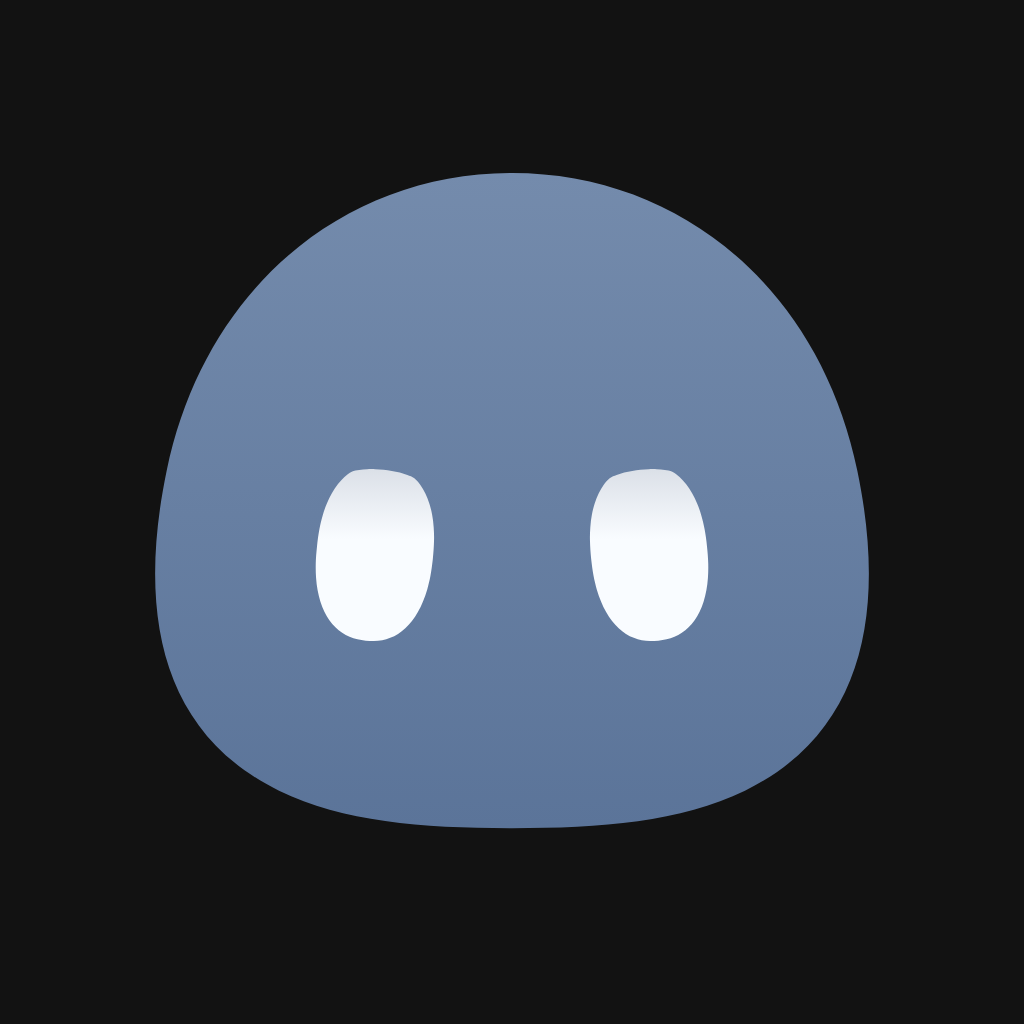
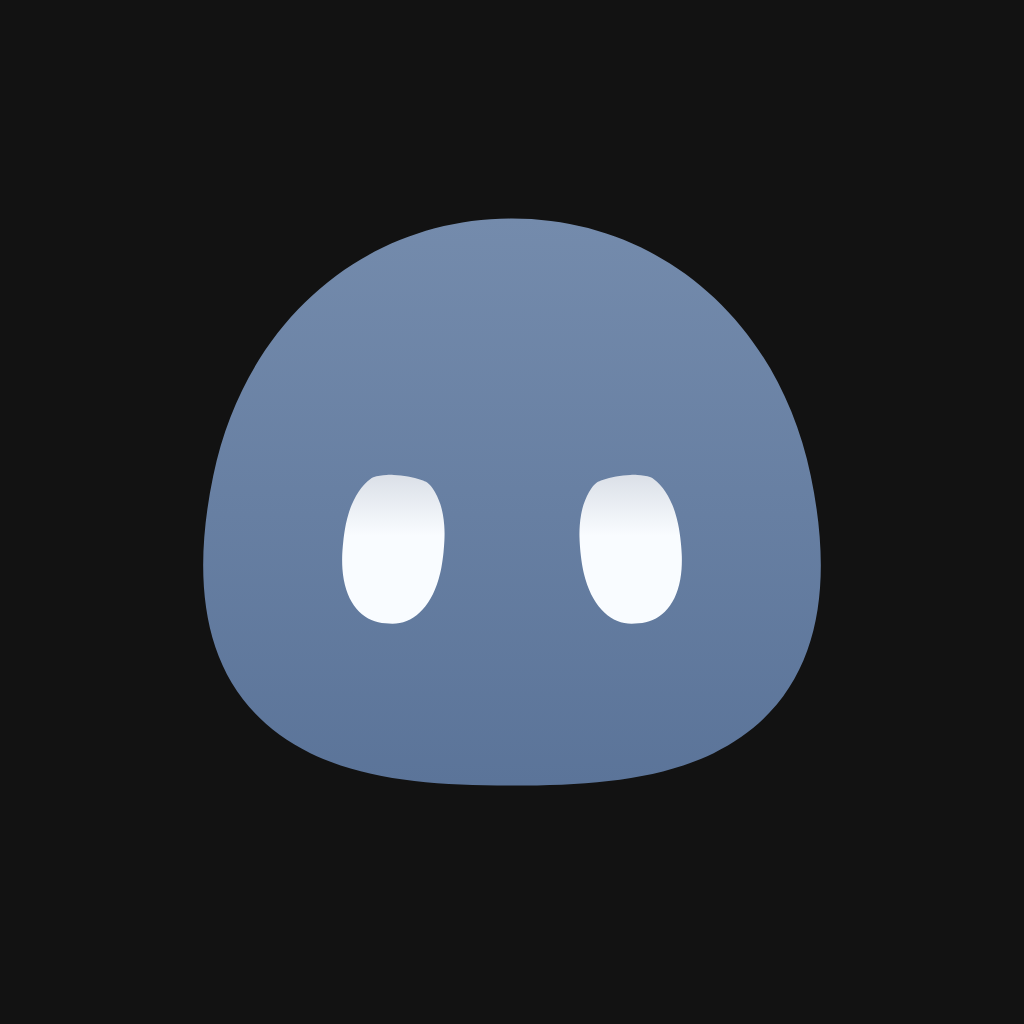
feat(site): Pebble sits smaller in the X profile picture, with room round it (W591) (#1531)
On the live profile Pebble spanned 73% of the circle and crowded the ring: the file had it at 70% of its width, and X
zooms an uploaded picture about 5%. It is now 60% of the file, 64% of the circle on X, about its same optical centre.
The banner is as it was.

Fleetd-Change: X1014 (T2940, W591)

diff --git a/site/brand/x/designs.ts b/site/brand/x/designs.ts
@@ -19,11 +19,12 @@ const ICON_DEFS = `
 const centred = (k: number, x: number, y: number, inner: string): string => `<g transform="translate(${String(x - 50 * k)} ${String(y - 54.6 * k)}) scale(${String(k)})">${inner}</g>`;
 
 /**
- * The profile picture: the app icon's Pebble on the landing page's dark paper, whole and big in the circle X cuts (72%
- * of its width, clear of the edge all round). Its eyes are a touch larger than the app draws them (1.12), so they hold
- * at 32 px.
+ * The profile picture: the app icon's Pebble on the landing page's dark paper, whole in the circle X cuts, with room
+ * all round it. Pebble is 60% of the picture's width; X zooms an uploaded picture about 5%, so it shows at 64% of the
+ * circle. At 70% it crowded the profile's ring, and under 56% it is a dot at 32 px. Its eyes are a touch larger than
+ * the app draws them (1.12), so they hold at 32 px.
  */
-export const avatar = `<svg xmlns="http://www.w3.org/2000/svg" width="1024" height="1024" viewBox="0 0 1024 1024"><defs>${ICON_DEFS}</defs><rect width="1024" height="1024" fill="${PAPER}"/>${centred(10.4, 512, 512, pebble({ body: "url(#slate)", eye: "url(#eye)", eyes: 1.12 }))}</svg>`;
+export const avatar = `<svg xmlns="http://www.w3.org/2000/svg" width="1024" height="1024" viewBox="0 0 1024 1024"><defs>${ICON_DEFS}</defs><rect width="1024" height="1024" fill="${PAPER}"/>${centred(9, 512, 512, pebble({ body: "url(#slate)", eye: "url(#eye)", eyes: 1.12 }))}</svg>`;
 
 /** The banner's ground: a shade under the landing page's paper, so a light has somewhere to fall. */
 const GROUND = "#101011";

diff --git a/site/brand/x/README.md b/site/brand/x/README.md
@@ -21,8 +21,8 @@ bun site/brand/x/build.ts
 
 ## What X does to them
 
-- The profile picture is cut to a circle and shown as small as 32 px, so it is one shape, big, with nothing near the
-  corners.
+- The profile picture is cut to a circle, zoomed about 5% on upload, and shown as small as 32 px, so it is one shape
+  with room all round it: Pebble is 60% of the file's width, which X shows at 64% of the circle.
 - The banner's lower left is under the profile picture. On a phone its top is under the clock and the round buttons,
   and about 100 px of each side is cut. The banner carries nothing that must be read: X sets the name right under it.
 
